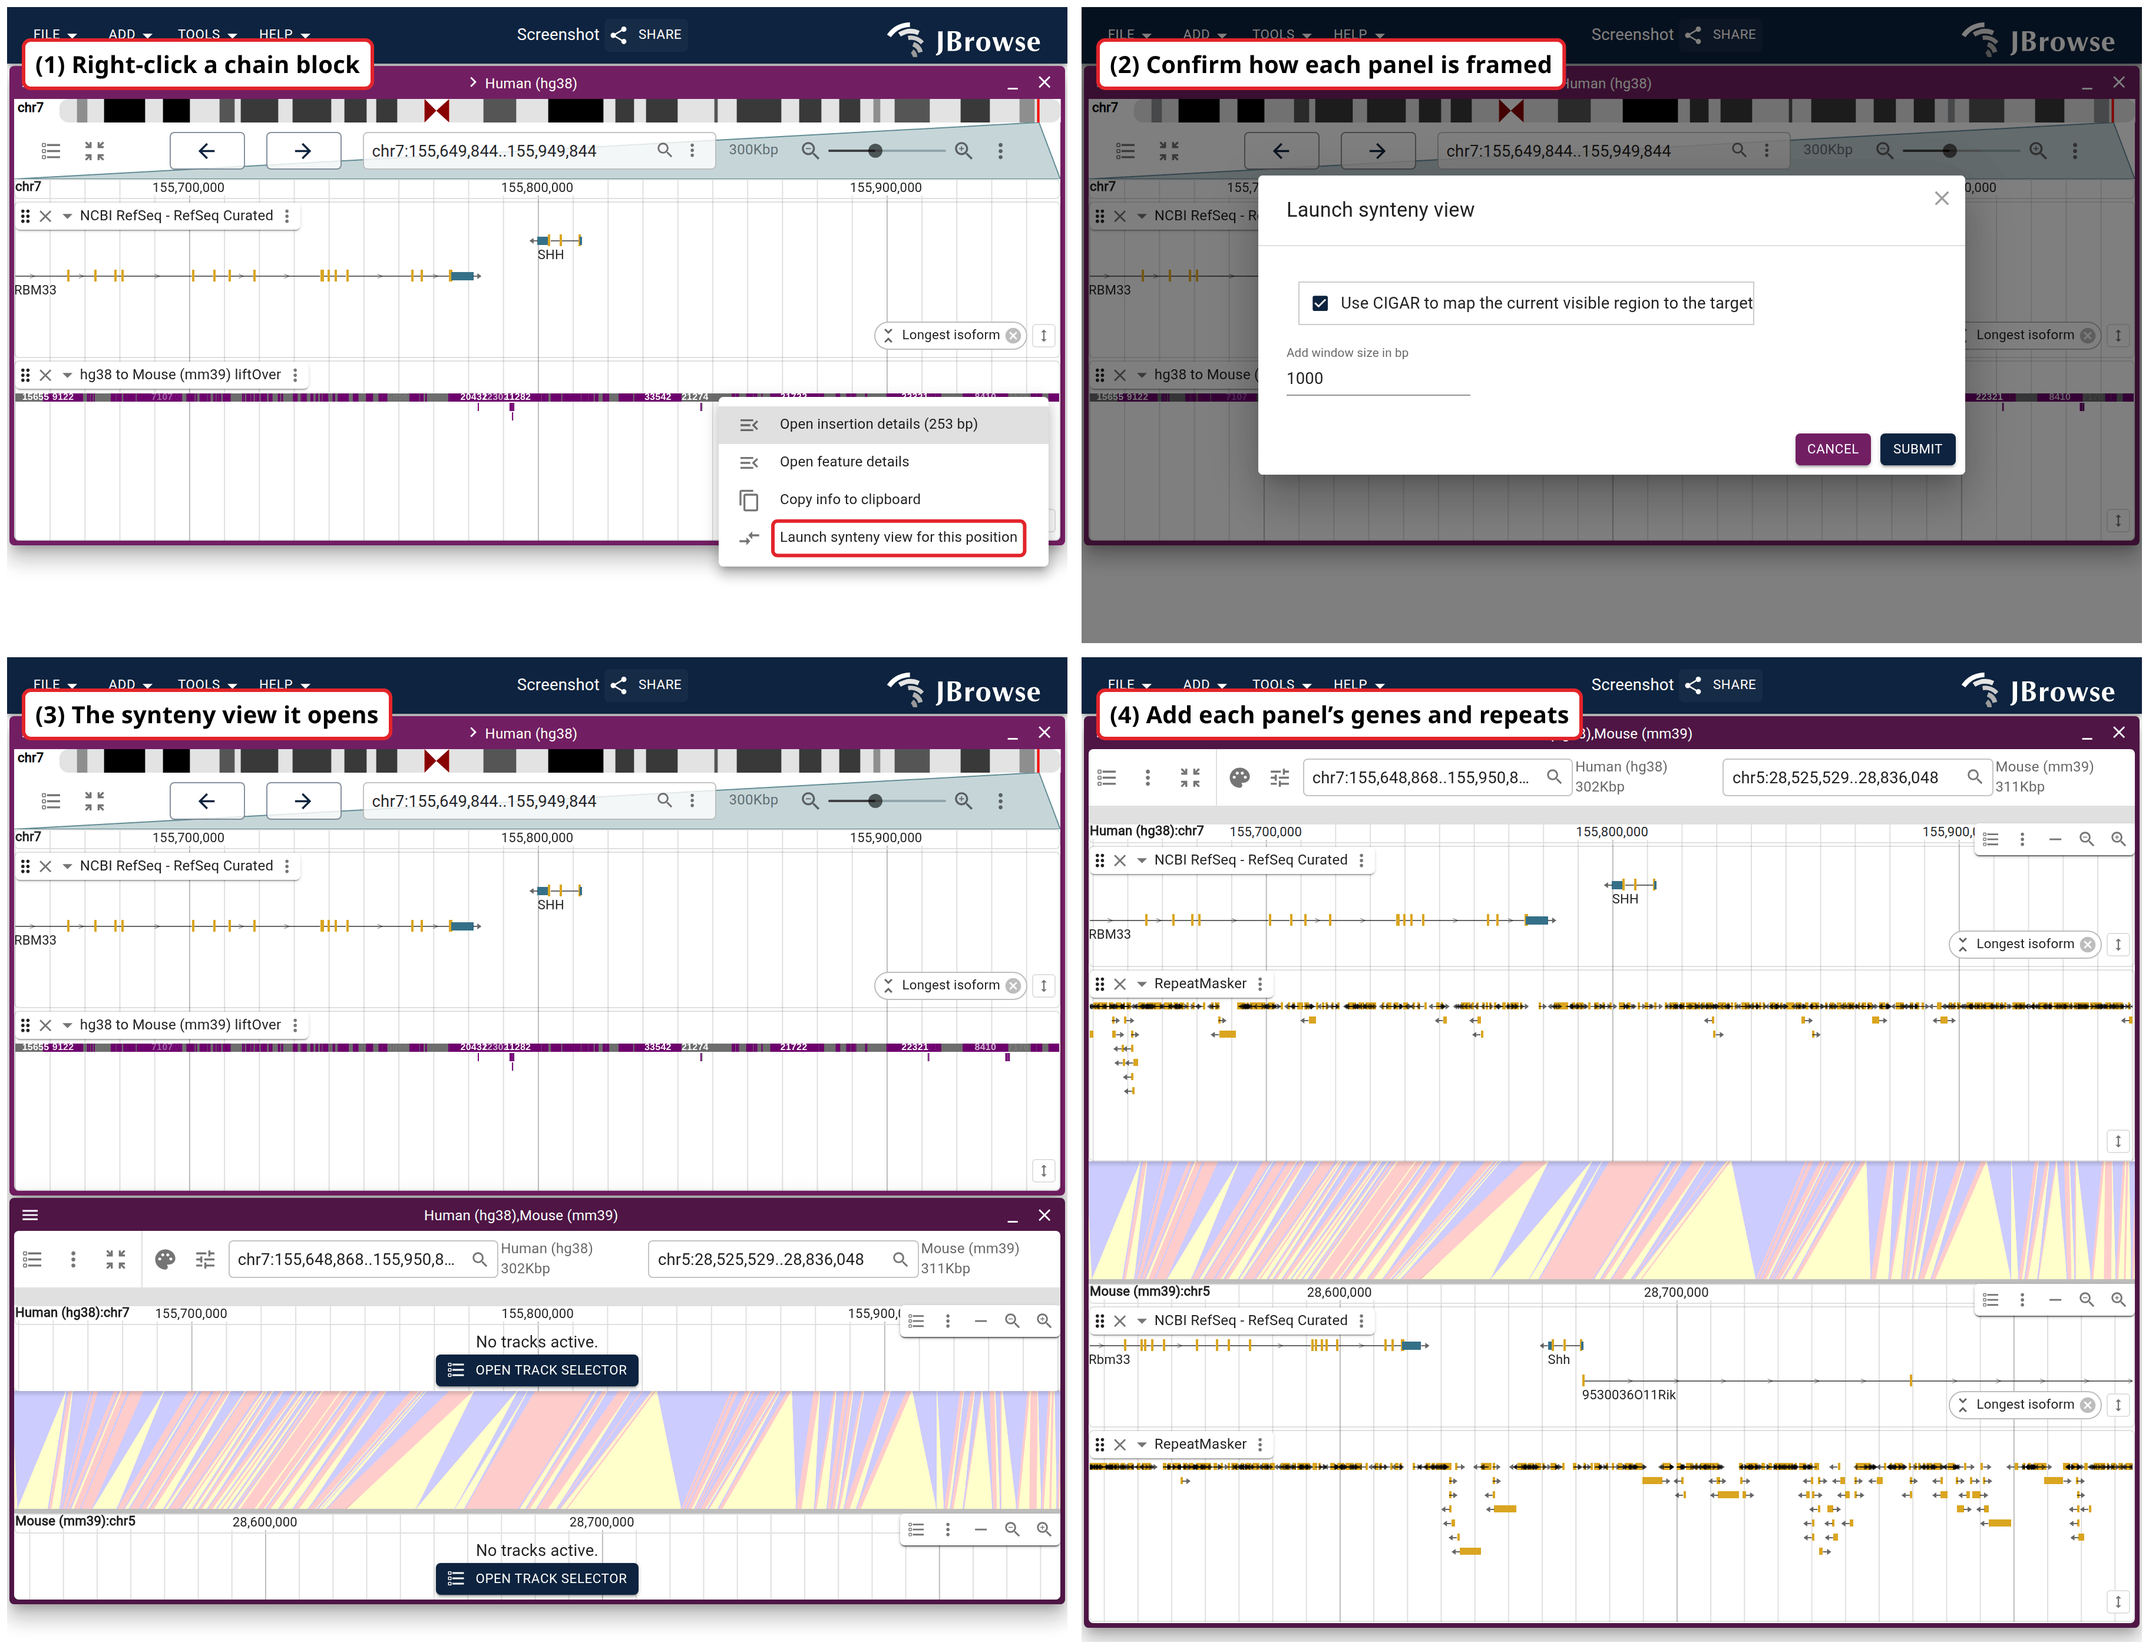
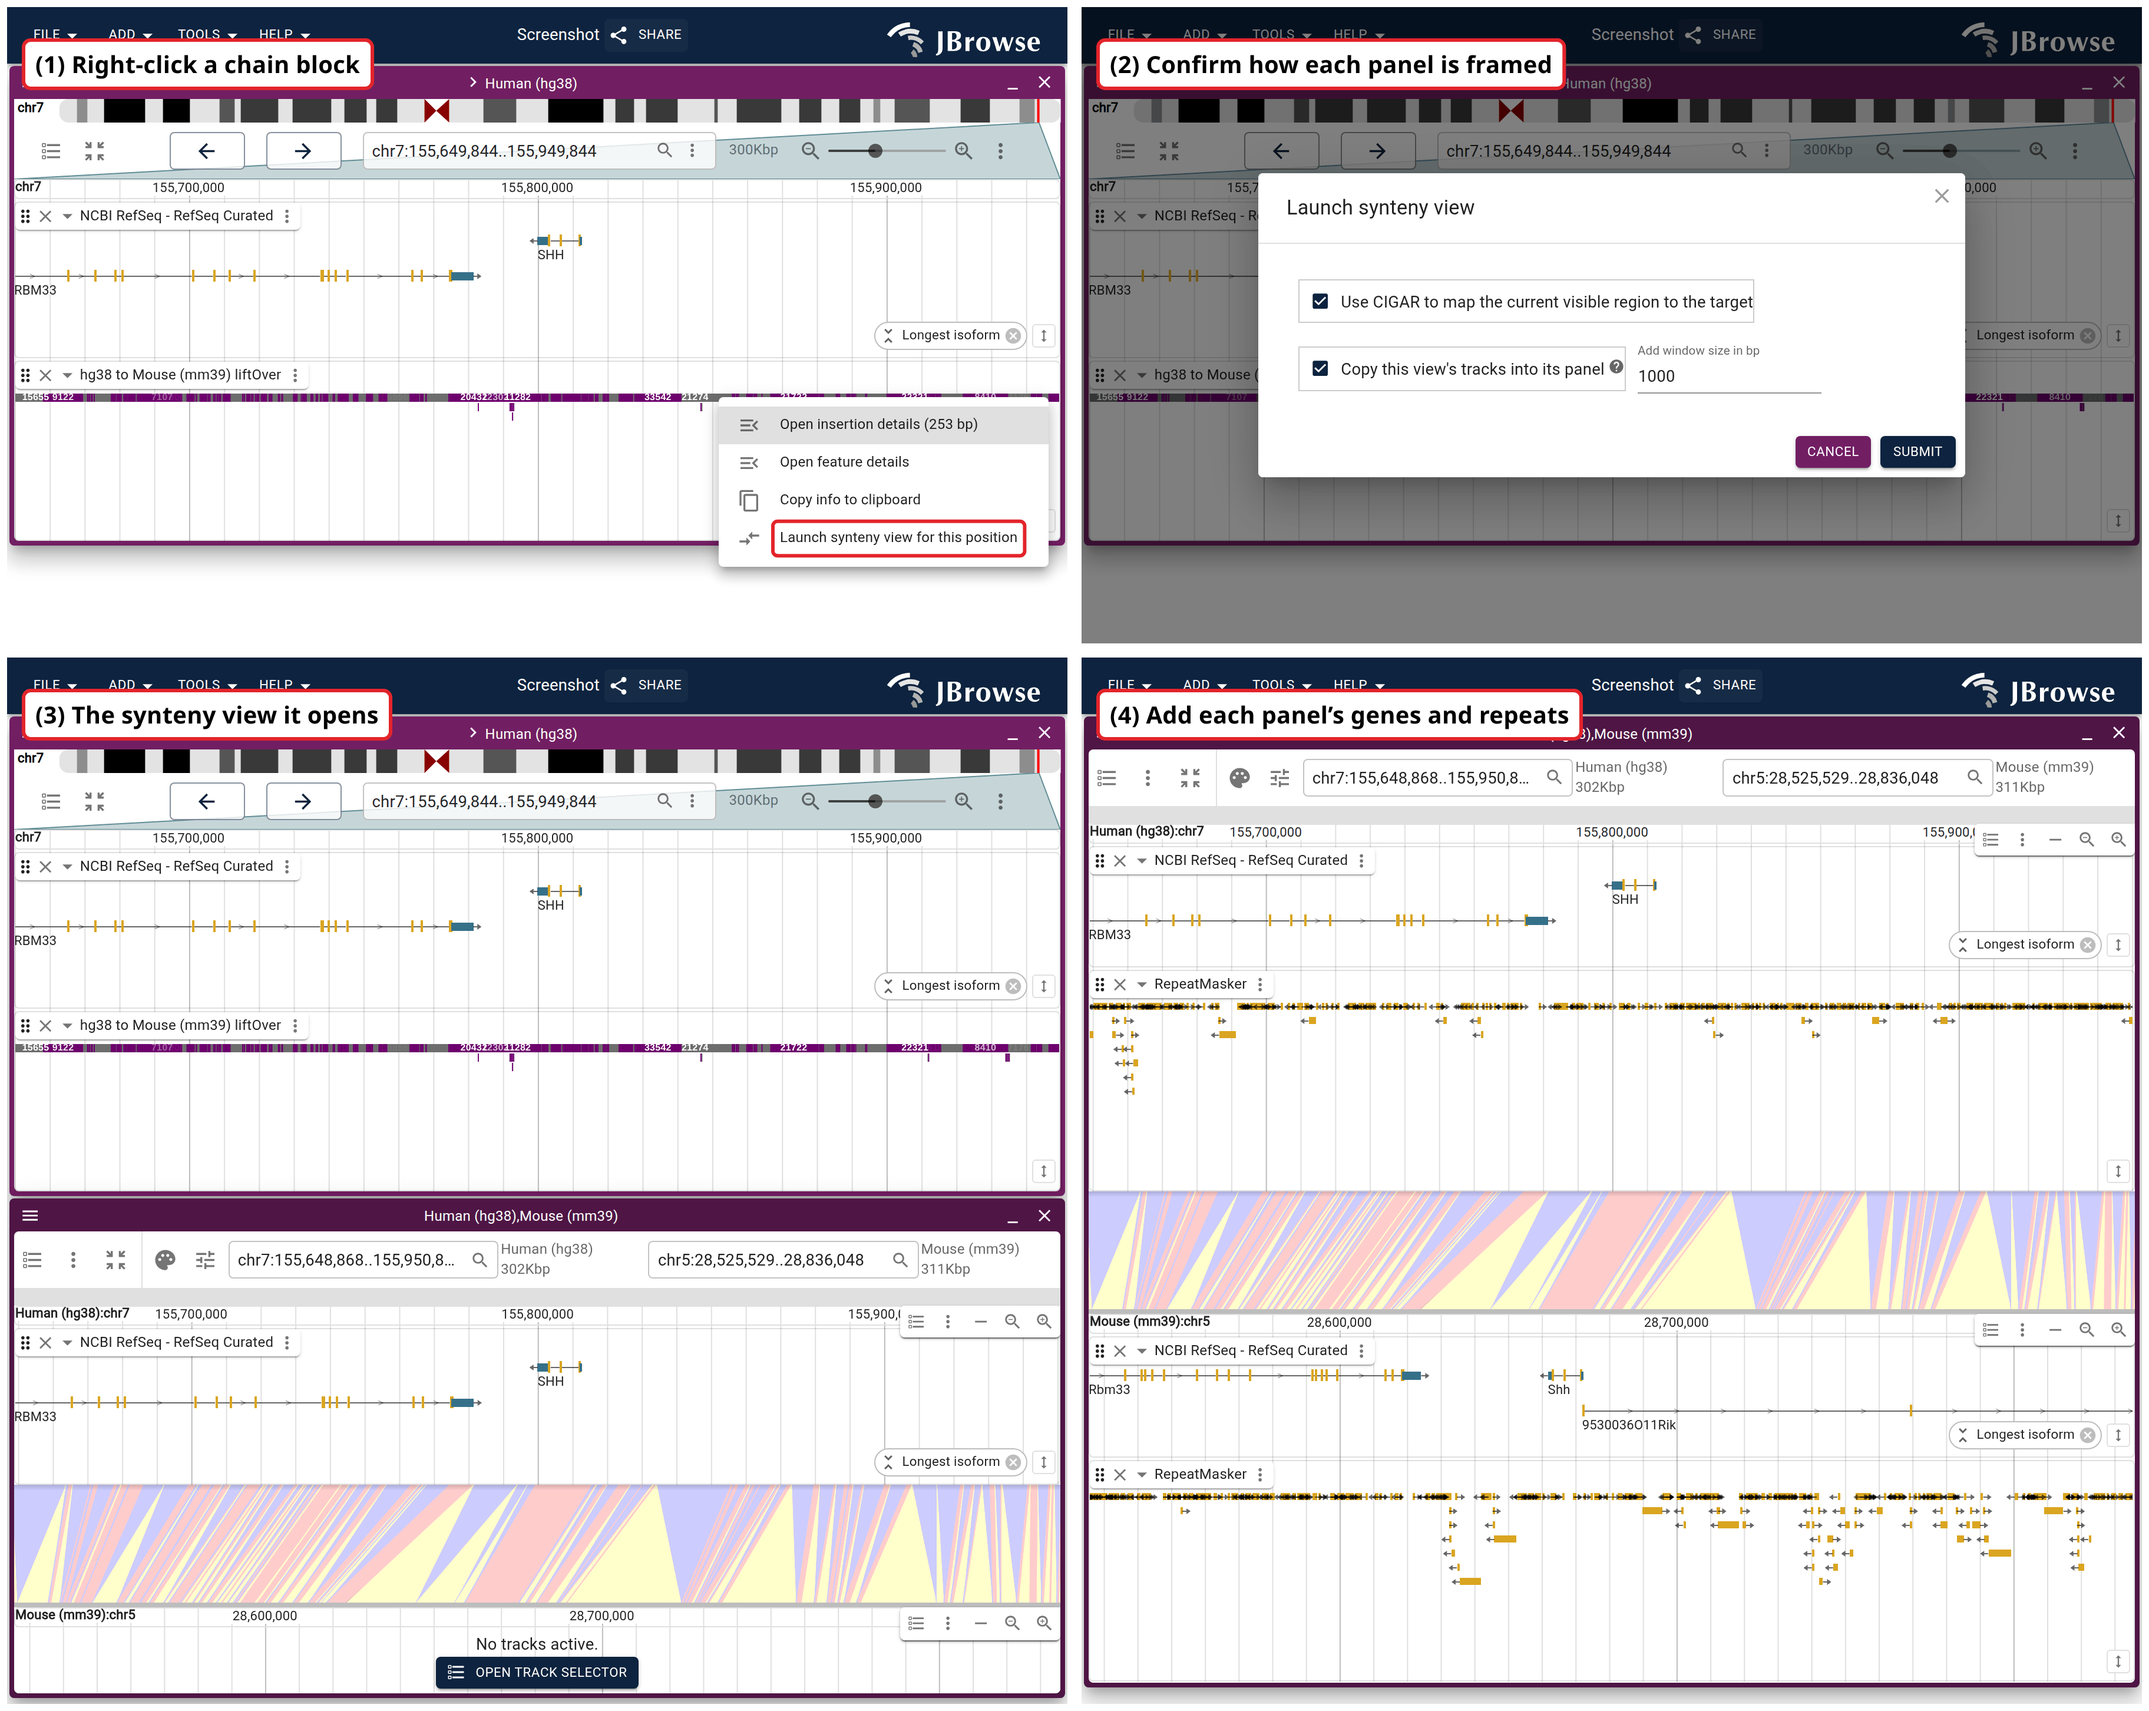
docs(genomes_synteny): regenerate the launch figure for the ported tracks
The launch now carries the launching view's tracks onto the panel for its
assembly, so the third frame is no longer two blank panels: the human panel
arrives with the gene track that view had on, the mouse panel opens empty
because nothing in the source view speaks for it, and the fourth frame is the
step that remains. Panel 2 gains the dialog's new checkbox. Both bottom frames
fill 888px with neither padded, which is what the fourth frame's declared
per-track heights are for.

Caption and the paragraph under it rewritten to match, and the review entry
records the provenance of the pixel diff: the PNG also picks up an unrelated
global ~1px chrome/text shift already in the tree (control: sequence_track
re-renders 14.2% off its committed copy against a clean production build, with
identical content), so most of the changed pixels are not this figure's edit.

diff --git a/website/docs/tutorials/genomes_synteny.md b/website/docs/tutorials/genomes_synteny.md
@@ -45,19 +45,21 @@ position**. The dialog that opens controls how the second panel is framed, and
 its defaults suit the block you clicked. **Use CIGAR to map the current visible
 region to the target** is the option to note: with it, JBrowse walks the
 alignment to find the interval matching what is in view, rather than framing on
-the whole block's endpoints. A reverse-strand block adds a second checkbox,
+the whole block's endpoints. A reverse-strand block adds another checkbox,
 **Horizontally flip inverted targets**, ticked by default so the target panel
 still reads left to right. **Submit** opens a two-panel synteny view on that
 position, with the liftOver track drawn as ribbons between the panels.
 
-<Figure caption="The four steps, from the hg38-to-mm39 liftOver track around SHH to the finished comparison: right-click a chain block, confirm how the target panel is framed, and the view that opens below the LGV it was launched from — 302 kb of human chr7 against the 311 kb of mouse chr5 it aligns to, one ribbon per chain block, both panels empty. The last frame is the same view with each panel's NCBI RefSeq Curated and RepeatMasker turned on: SHH sits opposite mouse Shh across the ribbons, while the two RepeatMasker bands share no pattern." src="/img/genomes_synteny/launch_sequence.png" />
+<Figure caption="The four steps, from the hg38-to-mm39 liftOver track around SHH to the finished comparison: right-click a chain block, confirm how the target panel is framed, and the view that opens below the linear genome view it was launched from — 302 kb of human chr7 against the 311 kb of mouse chr5 it aligns to, one ribbon per chain block. The human panel arrives carrying the gene track that view had on and the mouse panel opens empty; the last frame adds the mouse genes plus RepeatMasker on both sides, where SHH sits opposite mouse Shh across the ribbons while the two RepeatMasker bands share no pattern." src="/img/genomes_synteny/launch_sequence.png" />
 
-The launched view carries the chain track and nothing else, so each panel starts
-empty. Its tracks come from its own track selector, which the view header's
-track-selector button lists one of per panel — on genomes.jbrowse.org that is
-the same **NCBI RefSeq - RefSeq Curated** and **RepeatMasker** for the mouse
-panel as for the human one, because naming mm39 also brought in the mm39 hub's
-tracks.
+The panel for the assembly you launched from opens with the tracks that view had
+on, which is why the human side arrives with its genes already; **Copy this
+view's tracks into its panel** in the dialog turns that off. Nothing in the
+launching view says what the mouse panel should show, so that one opens empty,
+and its tracks come from its own track selector — the view header's
+track-selector button lists one per panel. On genomes.jbrowse.org the mouse
+panel offers the same **NCBI RefSeq - RefSeq Curated** and **RepeatMasker** as
+the human one, because naming mm39 also brought in the mm39 hub's tracks.
 
 Set the ribbon coloring to **Strand** from the palette button in the synteny
 track header.
